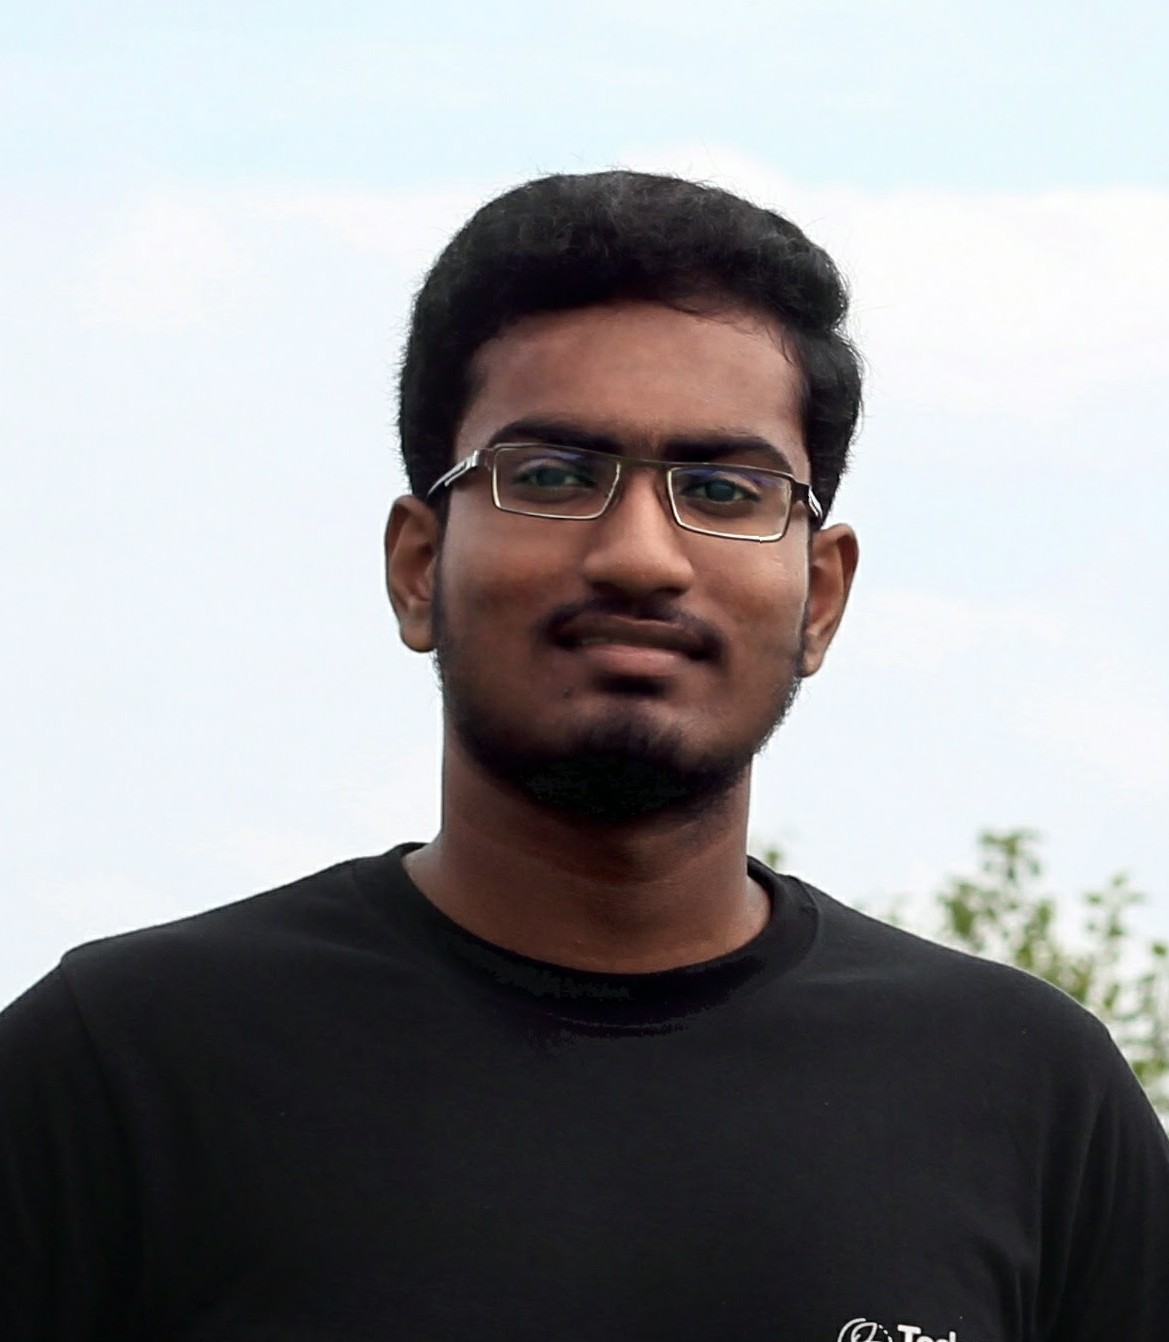
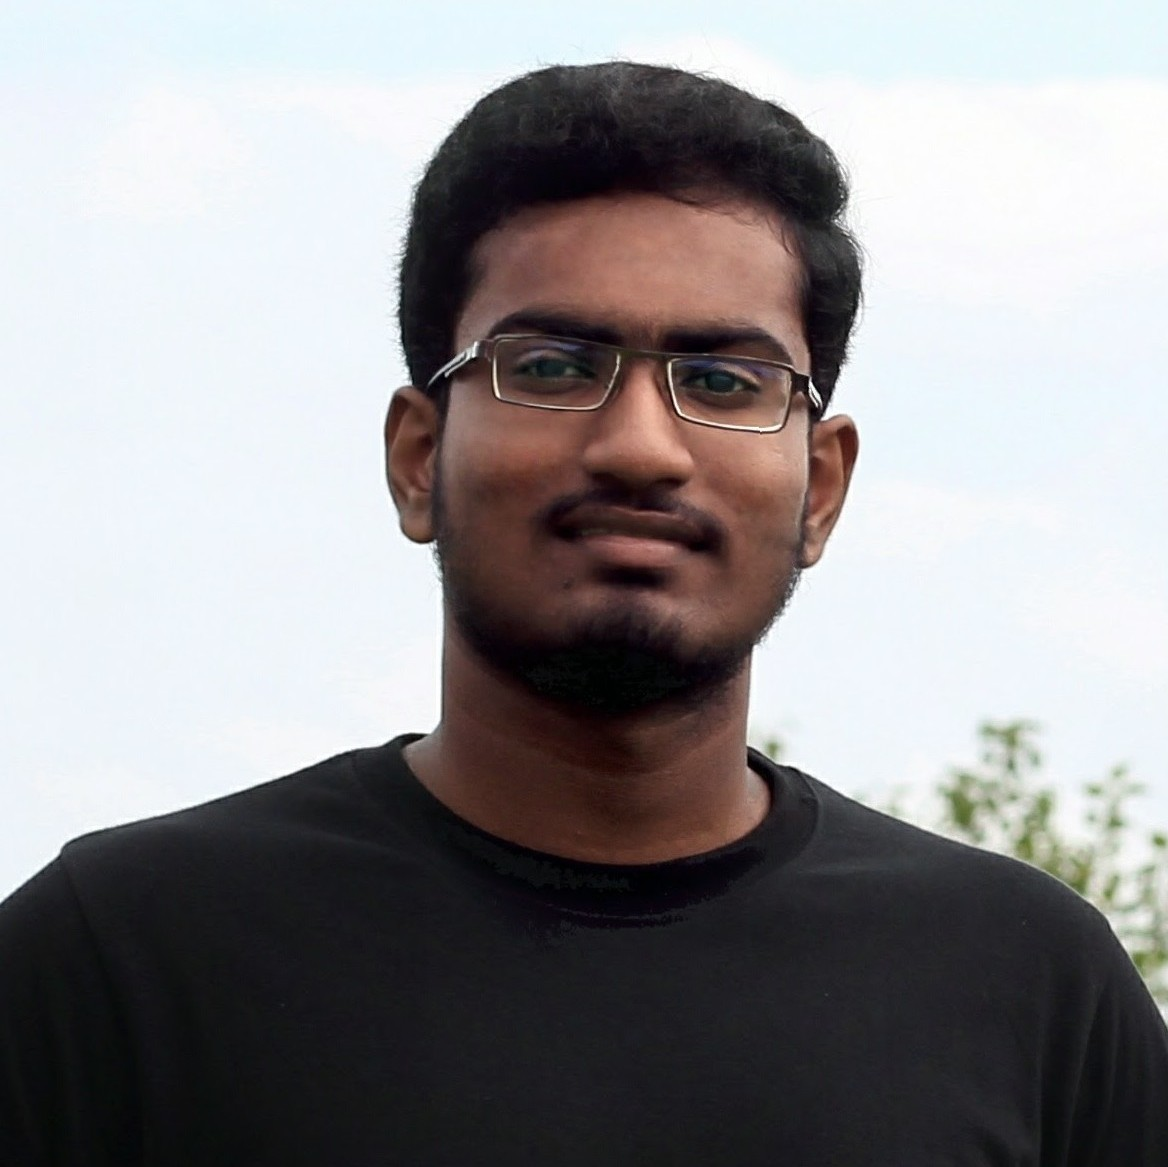
images update

diff --git a/resize.py b/resize.py
@@ -6,20 +6,12 @@ from scipy.misc import imsave
 import matplotlib.pyplot as plt
 from PIL import Image
 
-imgsx1 = plt.imread("images/style_night.jpg")
-imgsx1_resize = imresize(imgsx1, (512, 512))
 
-imx1 = Image.fromarray(imgsx1_resize)
-imx1.save("images/style_night1.jpg")
 
 imgsx2 = plt.imread("images/manideep.jpg")
 imgsx2_resize = imresize(imgsx2, (512, 512))
 
 imx2 = Image.fromarray(imgsx2_resize)
-imx2.save("images/manideep1.jpg")
+imx2.save("images/manideep11.jpg")
 
-imgsx2 = plt.imread("images/style1.jpg")
-imgsx2_resize = imresize(imgsx2, (512, 512))
 
-imx2 = Image.fromarray(imgsx2_resize)
-imx2.save("images/style_11.jpg")
